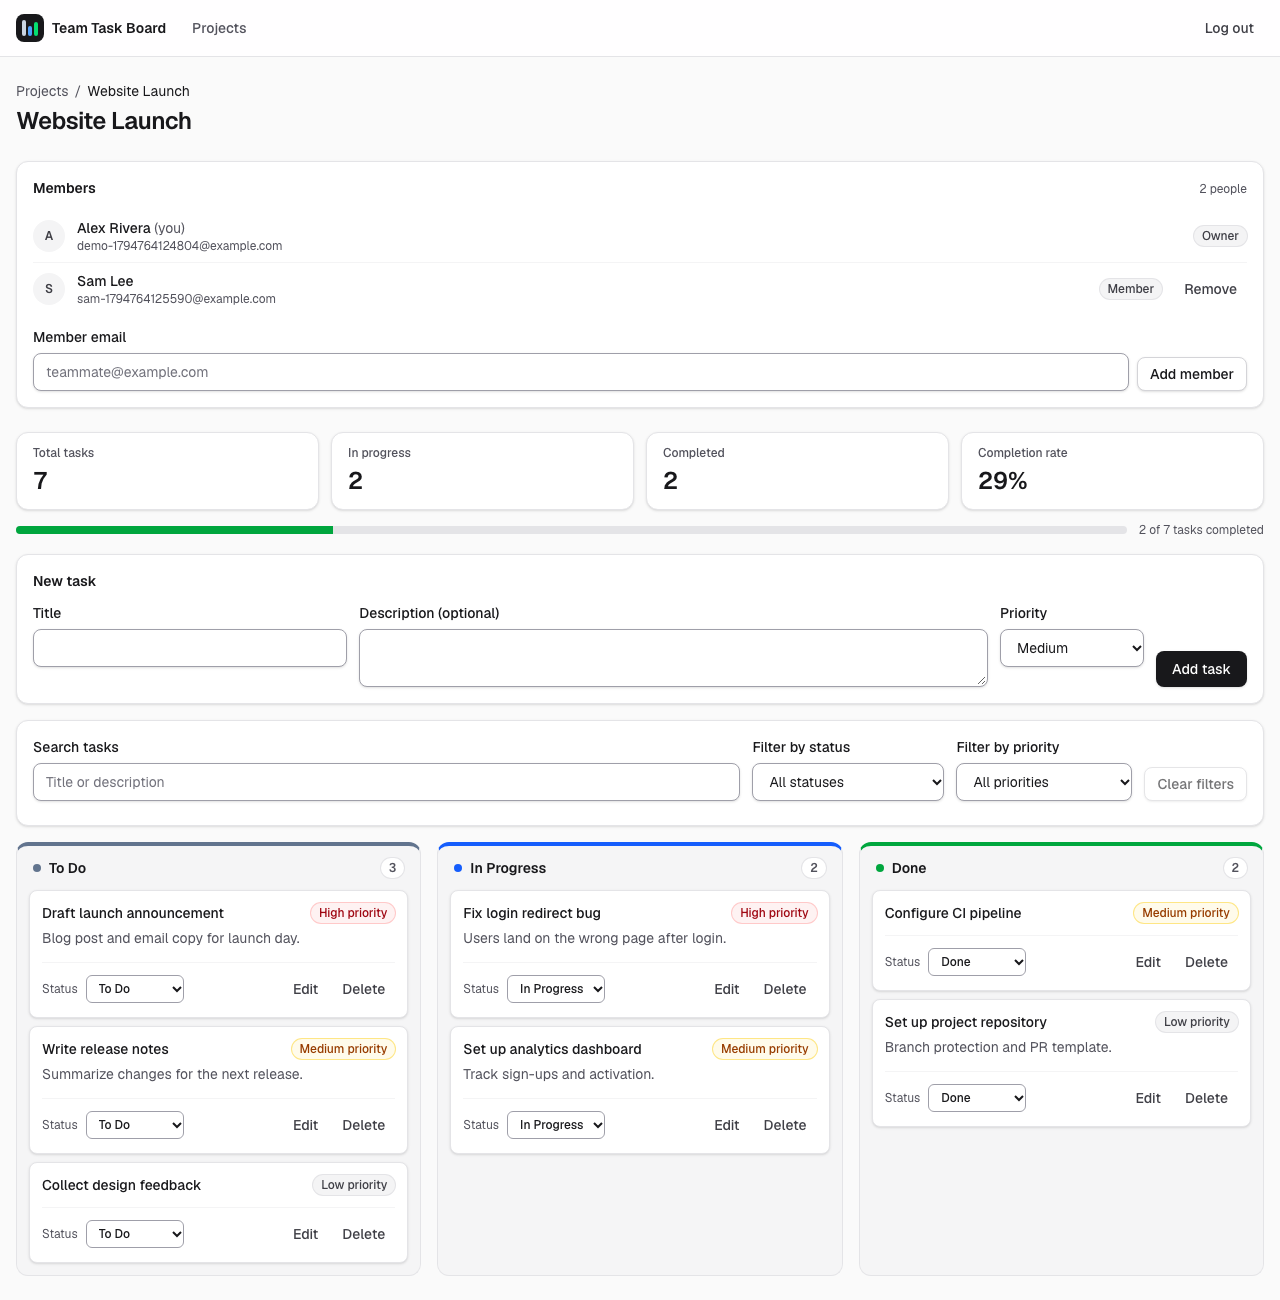
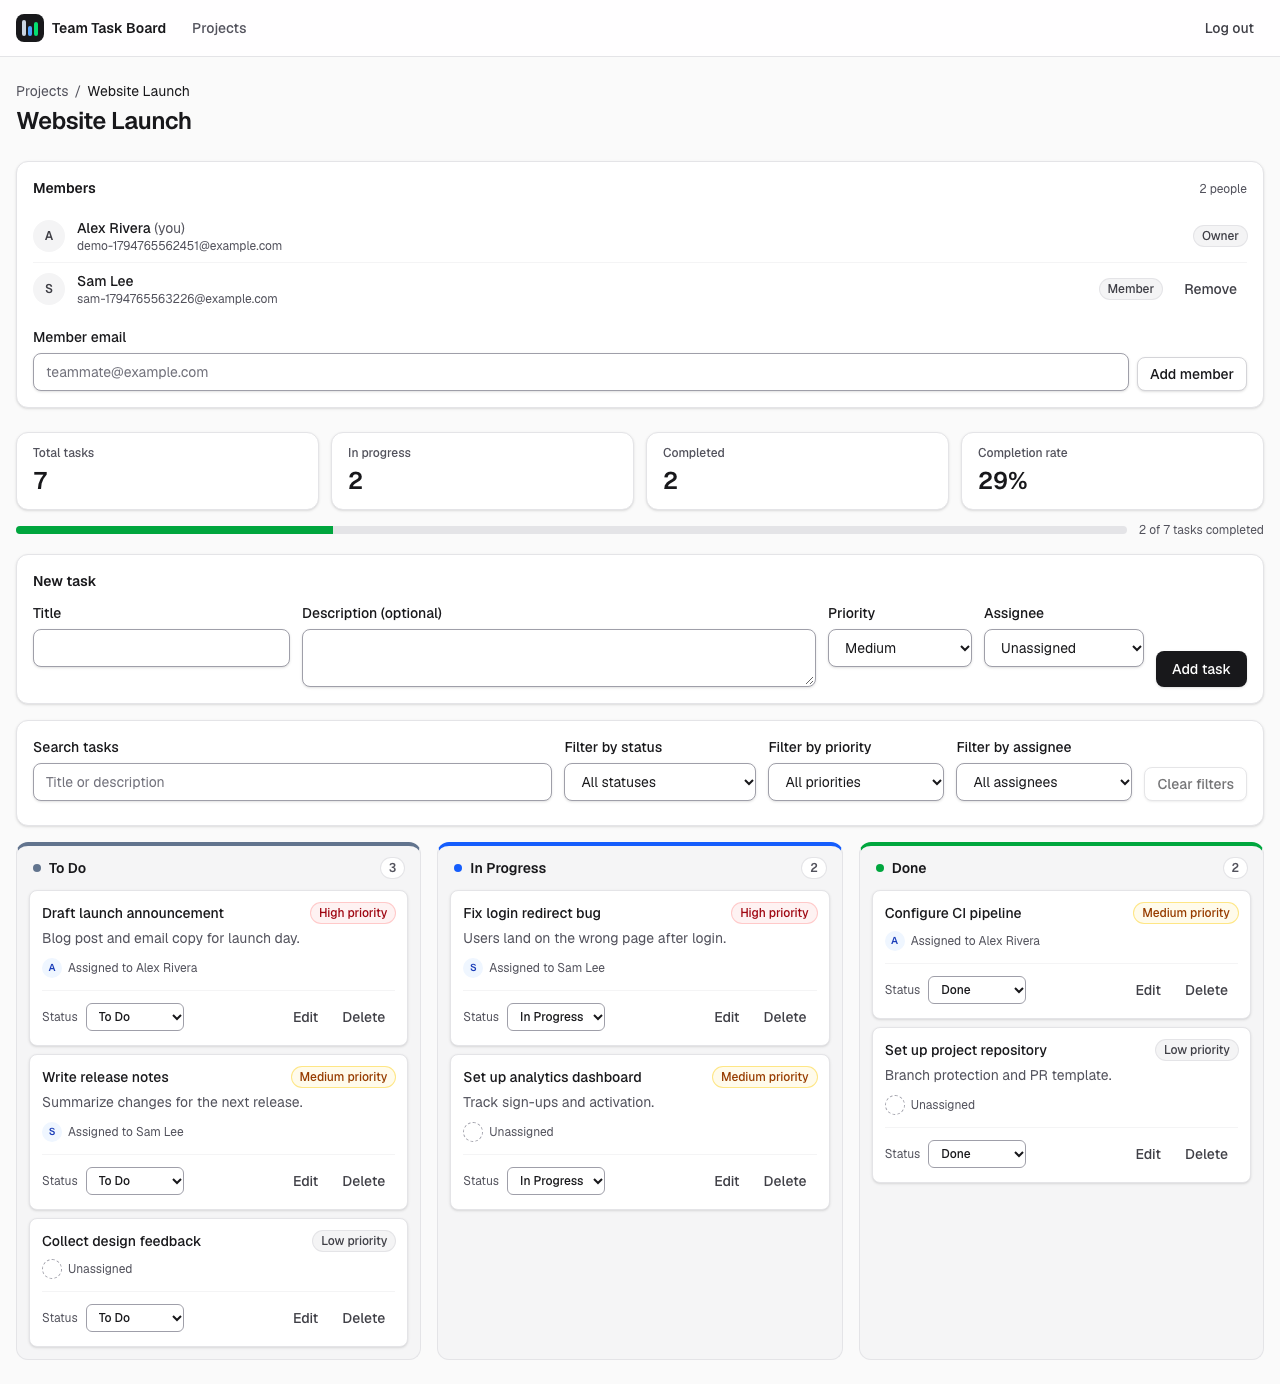
docs(#51): document task assignment in the PRD, ER diagram, DESIGN.md, README, and screenshots
Refs #51

diff --git a/DESIGN.md b/DESIGN.md
@@ -56,6 +56,7 @@ Calm, modern, utilitarian, in the spirit of Linear and Notion. Neutral surfaces 
 | Inputs | `INPUT`: `rounded-lg border border-zinc-400 bg-white px-3 py-2 text-sm shadow-sm`; label `text-sm font-medium` above; hint `text-xs text-zinc-600`. |
 | `ProjectOverview` | `role="group"` named "Project overview"; a `<dl>` of four stat cards (`bg-white border border-zinc-200 rounded-xl px-4 py-3 shadow-sm`; label `text-xs text-zinc-600`, value `text-2xl font-semibold tabular-nums`) in `grid-cols-2 sm:grid-cols-4`; then a native `<progress>` (`h-2 rounded-full`, track `bg-zinc-200`, fill `bg-green-600`) named "Completion rate" with an "X of Y tasks completed" caption. |
 | `MembersPanel` | Above the overview: `<section aria-label="Project members">` card (no heading element, so the page keeps one `<h1>` and only column `<h2>`s). Each member row: initial avatar (decorative), name ("(you)" for the viewer), email in muted text, role pill **Owner** / **Member**; the owner sees a ghost **Remove** (named "Remove {name}") on member rows and an **Add member** form (labeled "Member email"); a member sees **Leave project** with an inline red confirmation (**Confirm leave** / Cancel). |
+| Assignee | On each card below the description: a 20px circle with the assignee's initial (`bg-blue-50 text-blue-800`), or a dashed empty circle, followed by **"Assigned to {name}"** or **"Unassigned"** in `text-xs text-zinc-600` (decorative circle, the text carries the meaning). The add and edit forms add a labeled **Assignee** select (Unassigned + members) after Priority; the filter bar adds **Filter by assignee** (All assignees, Unassigned, members). |
 | `PriorityBadge` | Beside the card title: `rounded-full px-2 py-0.5 text-xs font-medium ring-1` with the text **"High priority" / "Medium priority" / "Low priority"** (never color alone). High `bg-red-50 text-red-800 ring-red-200`, Medium `bg-amber-50 text-amber-800 ring-amber-200`, Low `bg-zinc-100 text-zinc-700 ring-zinc-200`. Cards in a column are ordered High → Medium → Low. |
 | Priority select | In the add and edit forms, after the description: labeled **Priority**, options High / Medium / Low, default Medium. |
 | `TaskFilters` | Between the New task form and the columns: `role="search"` named "Filter tasks"; a card (`bg-white border border-zinc-200 rounded-xl p-4 shadow-sm`) with a labeled `type="search"` input ("Search tasks", placeholder "Title or description"), a "Filter by status" select (All statuses + the three statuses), a "Filter by priority" select (All priorities, High, Medium, Low), and a secondary **Clear filters** button (disabled with no active filter); below, a `role="status"` line "Showing X of Y tasks" while filtering. Empty columns then say **"No matching tasks"**. |

diff --git a/docs/prd.md b/docs/prd.md
@@ -56,6 +56,12 @@ Small teams lose track of who is doing what when tasks live in chat threads and 
 - [x] A user who is not a member gets 404 for the project, its tasks, and its members, even with a direct link or id.
 - [x] Removing a member revokes access on the next request; a member can leave a project; the owner cannot be removed.
 
+**US7. Task assignment** (added after Sprint 2, #51)
+- [x] Any member can assign a task to a current member of the project, or leave it unassigned; each card shows its assignee.
+- [x] Assigning someone who is not a member of the project is rejected (400) and changes nothing.
+- [x] The board can be filtered by assignee (including "Unassigned"), combined with search, status, and priority.
+- [x] When a member is removed or leaves, their tasks in that project become unassigned.
+
 ## 4. Design reference
 
 - Mockup: [`docs/mockups/board.png`](mockups/board.png) (1280px) and [`docs/mockups/board-mobile.png`](mockups/board-mobile.png) (375px). The source is [`docs/mockups/board.html`](mockups/board.html).
@@ -64,7 +70,7 @@ Small teams lose track of who is doing what when tasks live in chat threads and 
 
 ## 5. MVP scope
 
-**In scope:** US1–US5, plus US6 (shared projects and roles), added after Sprint 2.
+**In scope:** US1–US5, plus US6 (shared projects and roles) and US7 (task assignment), added after Sprint 2.
 
 **Explicitly out of scope:** drag-and-drop, real-time sync or WebSockets (collaboration is refresh-based), notifications, email invitations (members are added by the email of an existing account), due dates, file attachments, OAuth providers, mobile apps.
 
@@ -78,7 +84,8 @@ ProjectMember (projectId → Project, userId → User, role OWNER|MEMBER default
         access to a project and its tasks comes only from this table
 Task    (id, projectId → Project, title, description?, status TODO|IN_PROGRESS|DONE,
          priority LOW|MEDIUM|HIGH default MEDIUM (#47),
-         createdAt, updatedAt)                                  index (projectId, status)
+         assigneeId? → User on delete set null (#51),
+         createdAt, updatedAt)                                  index (projectId, status), (projectId, assigneeId)
 ```
 
 ## 7. Architecture

diff --git a/README.md b/README.md
@@ -17,6 +17,7 @@ A minimal Kanban task board. Users sign up, group work into projects, and move t
 - **Board** (#6, #8): three columns with counts and an empty state; change a task's status from its dropdown. The card moves at once and is saved through the API; if saving fails, it moves back and an error is shown.
 - **Project overview** (#40): above the board, cards show total tasks, in progress, completed, and the completion rate, with a progress bar. They are derived from the board's tasks and update as soon as a card moves.
 - **Shared projects and roles** (#49): the owner adds teammates by the email of their existing account; the project appears in everyone's list ("Shared with you"). Owners and members both work on tasks; only the owner deletes the project or manages members, and members can leave. Anyone else gets 404, even with a direct link. Removing a member revokes access immediately; collaboration is refresh-based.
+- **Task assignment** (#51): assign a task to any project member (or leave it unassigned) when adding or editing it; cards show "Assigned to {name}", and the board can be filtered by assignee. Only current members can be assigned, and a removed member's tasks become unassigned.
 - **Priority** (#47): every task is Low, Medium, or High priority (Medium by default), shown as a text badge on its card; each column lists High first, then Medium, then Low. Set it when adding a task or edit it later.
 - **Search and filter** (#45): a search box matches task titles and descriptions, status and priority filters narrow the columns, and Clear filters resets all three; a live message shows how many tasks match. Filtering happens in the browser, so the overview still counts every task.
 - **Tasks** (#7, #9): add a task (title required, description optional), edit its title and description, and delete it after confirming.

diff --git a/docs/architecture.md b/docs/architecture.md
@@ -72,6 +72,7 @@ erDiagram
   Project ||--o{ Task : contains
   Project ||--o{ ProjectMember : "has members"
   User ||--o{ ProjectMember : "belongs to"
+  User |o--o{ Task : "is assigned"
 
   User {
     String id PK "cuid"
@@ -99,6 +100,7 @@ erDiagram
     String description "nullable"
     TaskStatus status "TODO | IN_PROGRESS | DONE, default TODO"
     TaskPriority priority "LOW | MEDIUM | HIGH, default MEDIUM"
+    String assigneeId FK "nullable, a project member; on delete set null"
     DateTime createdAt
     DateTime updatedAt
   }
